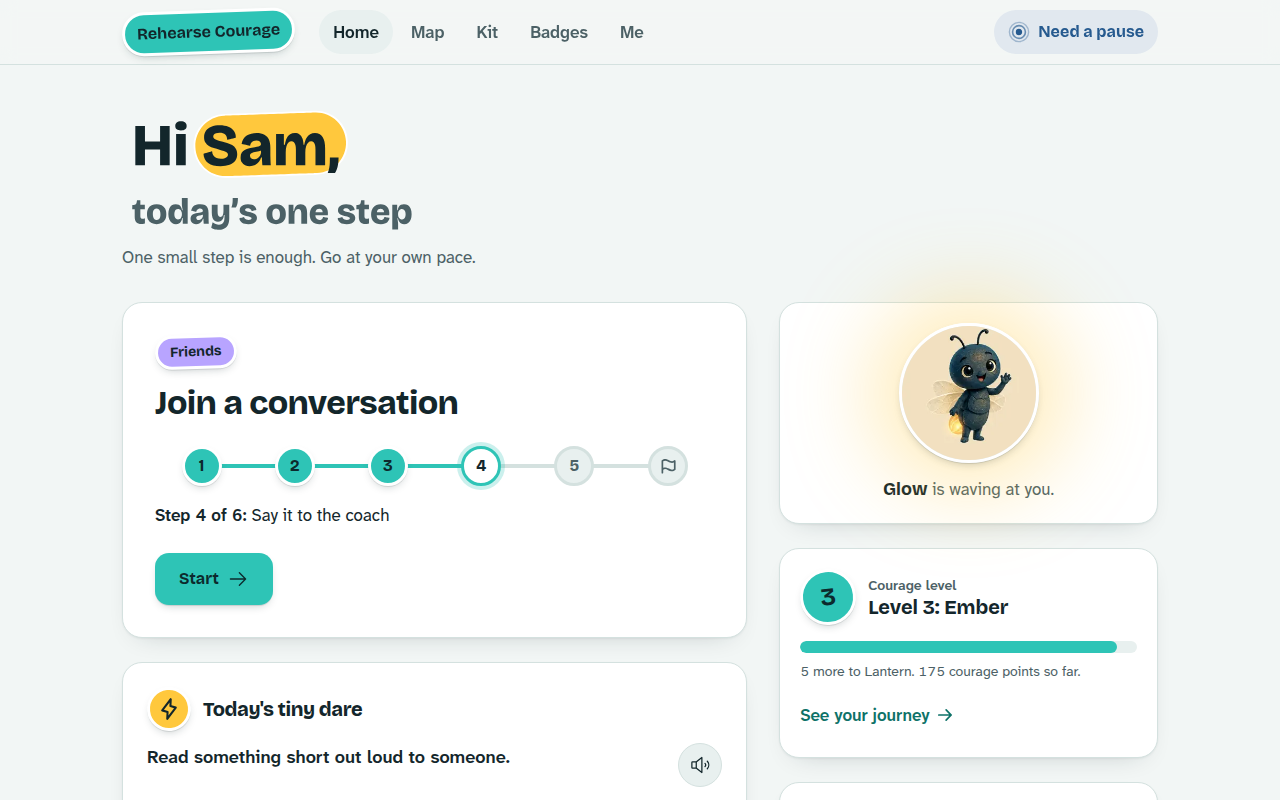
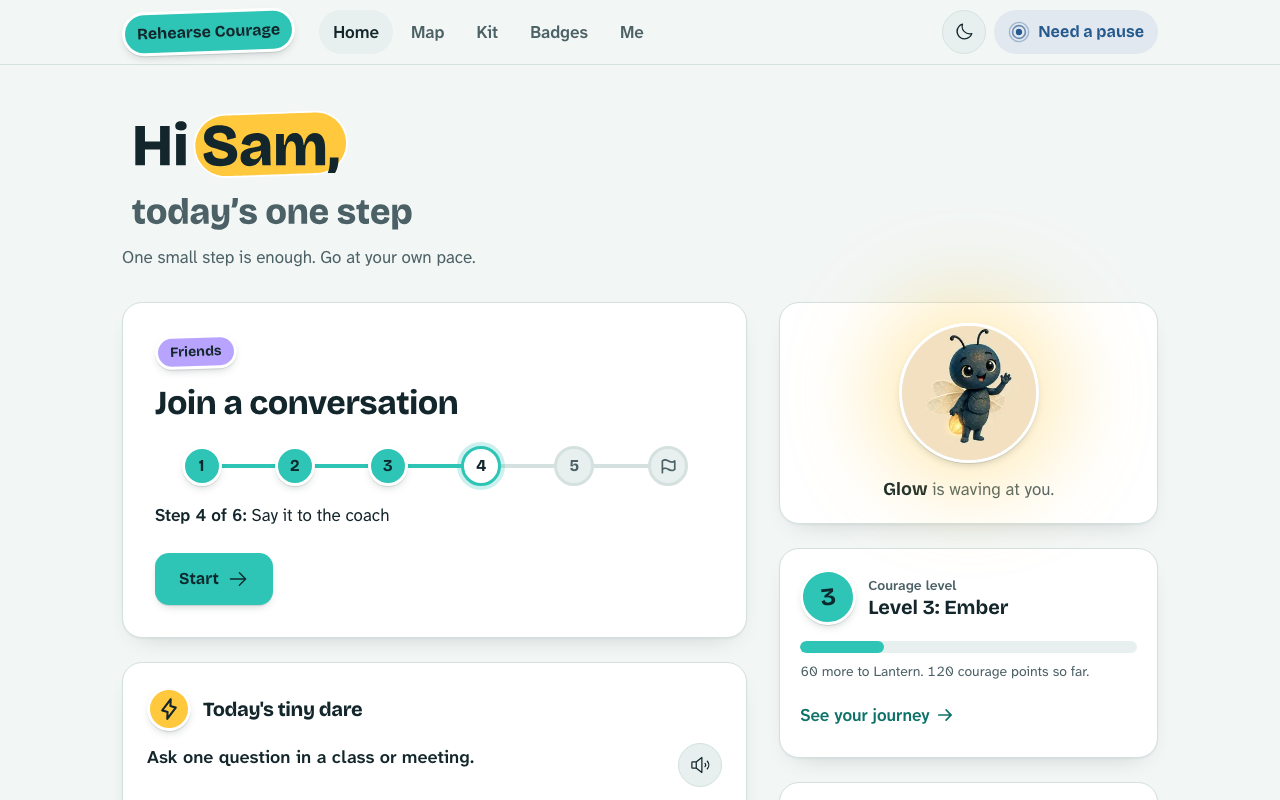
README: fresh Home screenshots in light and dark, showing the theme switch (#26)

diff --git a/README.md b/README.md
@@ -13,7 +13,7 @@ A Rehearse project, by Sayam Ajmal.
 
 <picture>
   <source media="(prefers-color-scheme: dark)" srcset="docs/screenshots/home-laptop-dark.png">
-  <img alt="Home: Hi Sam, today's one step. A Join a conversation card on step 4 of 6, today's tiny dare, the firefly companion and courage level 3, Ember" src="docs/screenshots/home-laptop.png" width="880">
+  <img alt="Home: Hi Sam, today's one step. A Join a conversation card on step 4 of 6, today's tiny dare, the firefly companion and courage level 3, Ember, with the light or dark switch next to Need a pause in the top bar" src="docs/screenshots/home-laptop.png" width="880">
 </picture>
 
 </div>
